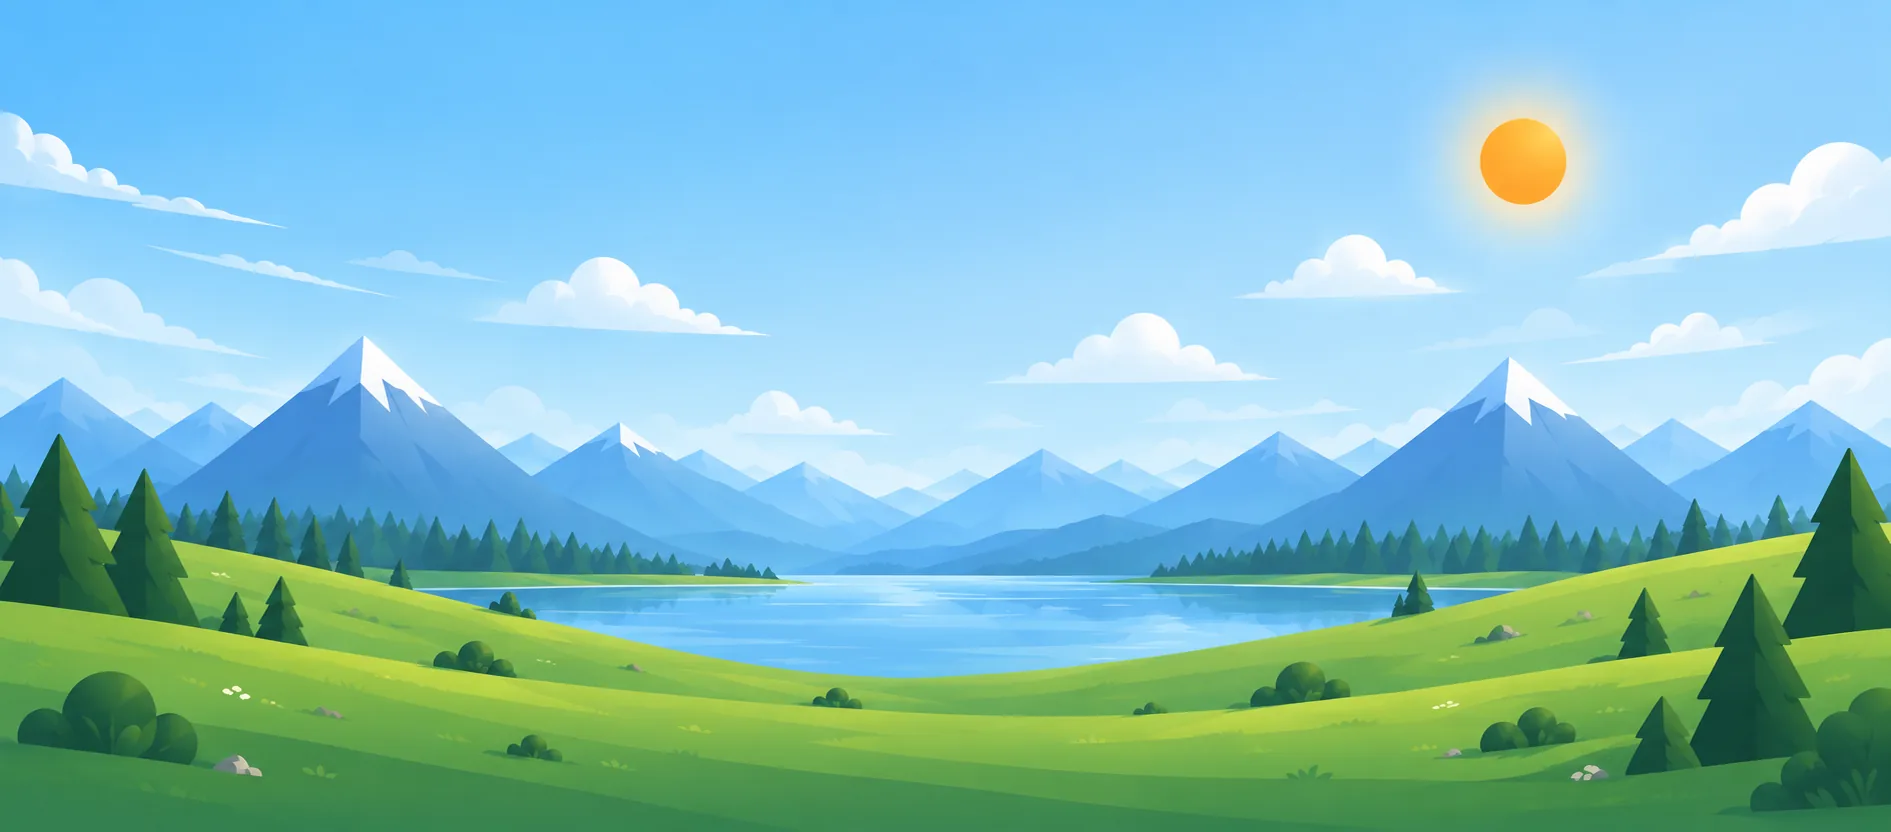
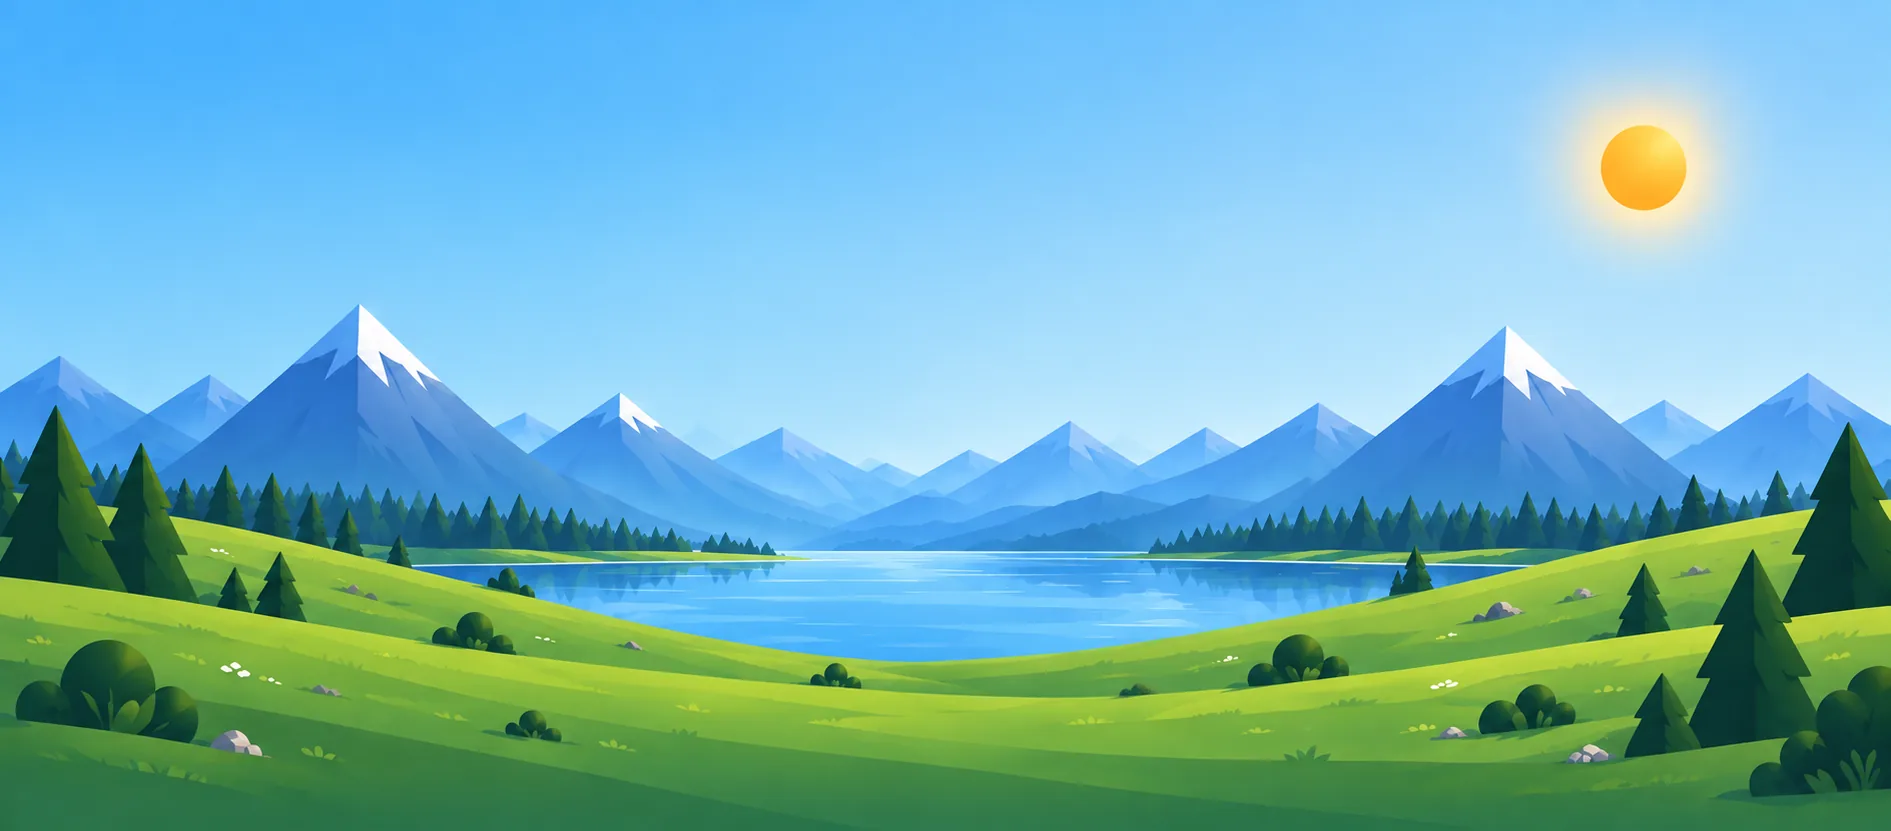
Replace baked-in clouds with animated SVG clouds/birds, add twinkling stars
The 3 scenery images now use cloudless source photos (user-supplied clean
versions), with clouds and birds rendered as real animated SVG overlays
instead of baked into the image or drawn as the legacy pixel-grid shapes:

- SmoothCloud: a flat-illustration puffy silhouette with a light-top/
  shadow-bottom gradient, a distinct offset shadow silhouette peeking out
  behind/below each cloud, and 3 slight shape variants (stretch/tilt) so
  clouds don't read as identical copies.
- SmoothBird: a soft curved "M" wing silhouette (not blocky pixels),
  appropriate for something read as very distant.
- Night mode gets a handful of genuinely twinkling stars layered on top of
  the image's own static starfield.

LegacyScenery (USE_IMAGE_SCENERY=false) is untouched -- verified the revert
flag still reproduces the original CSS/pixel-art backdrop exactly.

diff --git a/web/frontend/components/Scenery.tsx b/web/frontend/components/Scenery.tsx
@@ -27,6 +27,7 @@ import {
   mountains,
   mountainsFar,
   shrubs,
+  stars,
   trees,
 } from "@/app/theme";
 
@@ -122,6 +123,26 @@ function ImageScenery({
           }}
         />
 
+        {sceneryTime === "night" &&
+          stars.map((s, i) => (
+            <div
+              key={`star-${i}`}
+              style={{
+                position: "absolute",
+                top: s.top,
+                left: s.left,
+                width: s.size,
+                height: s.size,
+                borderRadius: "50%",
+                background: "#ffffff",
+                boxShadow: "0 0 4px 1px rgba(255,255,255,0.8)",
+                animation: `twinkle ${s.duration}s ease-in-out infinite`,
+                animationDelay: `${s.delay}s`,
+                opacity: prominence,
+              }}
+            />
+          ))}
+
         {birds.map((b, i) => (
           <div
             key={`bird-${i}`}
@@ -131,22 +152,10 @@ function ImageScenery({
               left: 0,
               animation: `birdFly ${b.duration}s linear infinite`,
               animationDelay: `${b.delay}s`,
-              opacity: prominence * 0.5,
-              display: "grid",
-              gridTemplateColumns: "repeat(5, 5px)",
-              gridTemplateRows: "repeat(3, 5px)",
+              opacity: prominence * 0.6,
             }}
           >
-            <div style={{ background: colors.birdColor, transformOrigin: "bottom", animation: "wingFlapL 0.7s ease-in-out infinite" }} />
-            <div /><div /><div />
-            <div style={{ background: colors.birdColor, transformOrigin: "bottom", animation: "wingFlapR 0.7s ease-in-out infinite" }} />
-            <div />
-            <div style={{ background: colors.birdColor }} />
-            <div />
-            <div style={{ background: colors.birdColor }} />
-            <div /><div /><div />
-            <div style={{ background: colors.birdColor }} />
-            <div /><div />
+            <SmoothBird color={colors.birdColor} />
           </div>
         ))}
 
@@ -160,18 +169,91 @@ function ImageScenery({
               transform: `scale(${c.scale})`,
               animation: `cloudDrift ${c.duration}s linear infinite`,
               animationDelay: `${c.delay}s`,
-              opacity: prominence * 0.8,
+              opacity: prominence * 0.85,
             }}
           >
-            <div style={{ display: "grid", gridTemplateColumns: "repeat(8, 15px)", gridTemplateRows: "repeat(3, 15px)" }}>
-              {CLOUD_MASK.map((on, j) => (
-                <div key={j} style={on ? { background: colors.cloudColor } : undefined} />
-              ))}
-            </div>
+            <SmoothCloud dark={dark} variant={i % CLOUD_VARIANTS.length} />
           </div>
         ))}
       </div>
     </>
+  );
+}
+
+// Slight per-instance stretch/tilt (applied to the same base silhouette
+// below via a wrapping <g> transform) so a row of clouds doesn't read as
+// the same puff copy-pasted three times -- "some slight variation in the
+// clouds" -- without needing several hand-drawn path variants.
+const CLOUD_VARIANTS = [
+  { scaleX: 1, scaleY: 1, rotate: 0 },
+  { scaleX: 1.14, scaleY: 0.88, rotate: -3 },
+  { scaleX: 0.88, scaleY: 1.12, rotate: 3 },
+];
+
+const CLOUD_PATH =
+  "M25,50 C11,50 0,39 0,29 C0,18 9,10 20,10 C23,4 30,0 39,0 C50,0 59,7 62,17 C74,15 85,23 85,35 C85,44 76,50 66,50 Z";
+
+// A puffy, multi-lobed flat-illustration cloud (SVG, not the legacy pixel
+// grid) with a real light-top/shadow-bottom gradient inside the shape --
+// "add the shadows that are on the clouds" from the reference images,
+// literally, rather than a flat single-color fill. Two fixed gradient
+// pairs (not derived from colors.cloudColor) since that token is only
+// ever a plain white/pale-blue fill with no shadow tone baked in for
+// either theme -- these are new, deliberately chosen to read as "lit
+// cream top, soft blue-gray shadow underside" against either sky. A second,
+// darker copy of the same silhouette sits behind the main shape, offset
+// down-right and scaled slightly smaller, so it peeks out along the
+// bottom/trailing edge as a real cast-shadow silhouette -- not just the
+// gradient's own internal shading.
+function SmoothCloud({ dark, variant = 0 }: { dark: boolean; variant?: number }) {
+  const gradId = `cloudGrad${dark ? "Dark" : "Light"}${variant}`;
+  const [topStop, bottomStop] = dark
+    ? ["rgba(226,232,248,0.65)", "rgba(138,152,188,0.4)"]
+    : ["rgba(255,255,255,0.97)", "rgba(196,210,232,0.65)"];
+  const shadowColor = dark ? "rgba(60,72,112,0.45)" : "rgba(146,166,196,0.4)";
+  const v = CLOUD_VARIANTS[variant % CLOUD_VARIANTS.length];
+  return (
+    <svg width={100} height={60} viewBox="0 0 100 60" style={{ display: "block", overflow: "visible" }}>
+      <defs>
+        <linearGradient id={gradId} x1="0" y1="0" x2="0" y2="1">
+          <stop offset="0%" stopColor={topStop} />
+          <stop offset="100%" stopColor={bottomStop} />
+        </linearGradient>
+      </defs>
+      <g transform={`translate(42,25) scale(${v.scaleX},${v.scaleY}) rotate(${v.rotate}) translate(-42,-25)`}>
+        <path d={CLOUD_PATH} transform="translate(3,5) scale(0.94)" fill={shadowColor} />
+        <path d={CLOUD_PATH} fill={`url(#${gradId})`} />
+      </g>
+    </svg>
+  );
+}
+
+// A distant bird as two curved wing strokes meeting at a shared root,
+// each independently rotating about that root (wingFlapSmoothL/R) --
+// reads as a soft "M" silhouette in flight rather than the legacy
+// blocky pixel-grid bird, appropriately simple for something this far
+// away (real feather/body detail would be invisible at this scale
+// regardless of how the shape itself is drawn).
+function SmoothBird({ color }: { color: string }) {
+  return (
+    <svg width={20} height={12} viewBox="0 0 20 12" style={{ display: "block", overflow: "visible" }}>
+      <path
+        d="M10,10 Q5,4 0,6"
+        fill="none"
+        stroke={color}
+        strokeWidth={1.6}
+        strokeLinecap="round"
+        style={{ transformOrigin: "10px 10px", animation: "wingFlapSmoothL 0.9s ease-in-out infinite" }}
+      />
+      <path
+        d="M10,10 Q15,4 20,6"
+        fill="none"
+        stroke={color}
+        strokeWidth={1.6}
+        strokeLinecap="round"
+        style={{ transformOrigin: "10px 10px", animation: "wingFlapSmoothR 0.9s ease-in-out infinite" }}
+      />
+    </svg>
   );
 }
 

diff --git a/web/frontend/app/theme.ts b/web/frontend/app/theme.ts
@@ -140,6 +140,26 @@ export const birds = [
   { top: "23%", duration: 24, delay: -3 },
 ];
 
+// Night-only twinkling stars (ImageScenery), layered on top of the static
+// stars already baked into night.webp -- a handful of real animated points
+// so the sky isn't purely static, without trying to replace the image's
+// own starfield. Fixed positions/timings (not Math.random()) so server and
+// client render identically and hydration never mismatches.
+export const stars = [
+  { top: "8%", left: "12%", size: 2, duration: 3.2, delay: 0 },
+  { top: "15%", left: "25%", size: 1.5, duration: 4, delay: -1 },
+  { top: "6%", left: "40%", size: 2.5, duration: 3.6, delay: -2 },
+  { top: "20%", left: "55%", size: 1.5, duration: 4.4, delay: -0.5 },
+  { top: "10%", left: "68%", size: 2, duration: 3, delay: -1.5 },
+  { top: "25%", left: "80%", size: 1.5, duration: 3.8, delay: -2.5 },
+  { top: "14%", left: "5%", size: 1.5, duration: 4.2, delay: -3 },
+  { top: "30%", left: "35%", size: 2, duration: 3.4, delay: -1.8 },
+  { top: "4%", left: "88%", size: 1.5, duration: 3.9, delay: -0.8 },
+  { top: "34%", left: "60%", size: 2, duration: 3.3, delay: -2.2 },
+  { top: "18%", left: "92%", size: 1.5, duration: 4.1, delay: -1.2 },
+  { top: "28%", left: "15%", size: 1.5, duration: 3.7, delay: -3.4 },
+];
+
 // peak: 0-100, the % across the mountain's own width where its tip sits --
 // varied per mountain (not always 50%) so the ridge line reads as a real,
 // irregular range rather than a row of identical symmetric triangles.

diff --git a/web/frontend/app/globals.css b/web/frontend/app/globals.css
@@ -21,6 +21,24 @@
   0%, 100% { transform: scaleY(1) translateY(0); }
   50% { transform: scaleY(0.3) translateY(3px); }
 }
+/* Smooth-bird variant (ImageScenery only, see Scenery.tsx) -- a curved
+   wing rotating about its own root, not a blocky pixel-grid squash, so it
+   reads as a distant bird silhouette against the illustrated backdrops
+   instead of the legacy voxel scenery's pixel-art flap. */
+@keyframes wingFlapSmoothL {
+  0%, 100% { transform: rotate(0deg); }
+  50% { transform: rotate(-20deg); }
+}
+@keyframes wingFlapSmoothR {
+  0%, 100% { transform: rotate(0deg); }
+  50% { transform: rotate(20deg); }
+}
+/* Night-only twinkling stars (ImageScenery) -- layered on top of the
+   static starfield already baked into night.webp. */
+@keyframes twinkle {
+  0%, 100% { opacity: 0.25; transform: scale(0.8); }
+  50% { opacity: 1; transform: scale(1.15); }
+}
 @keyframes spin {
   to { transform: rotate(360deg); }
 }
